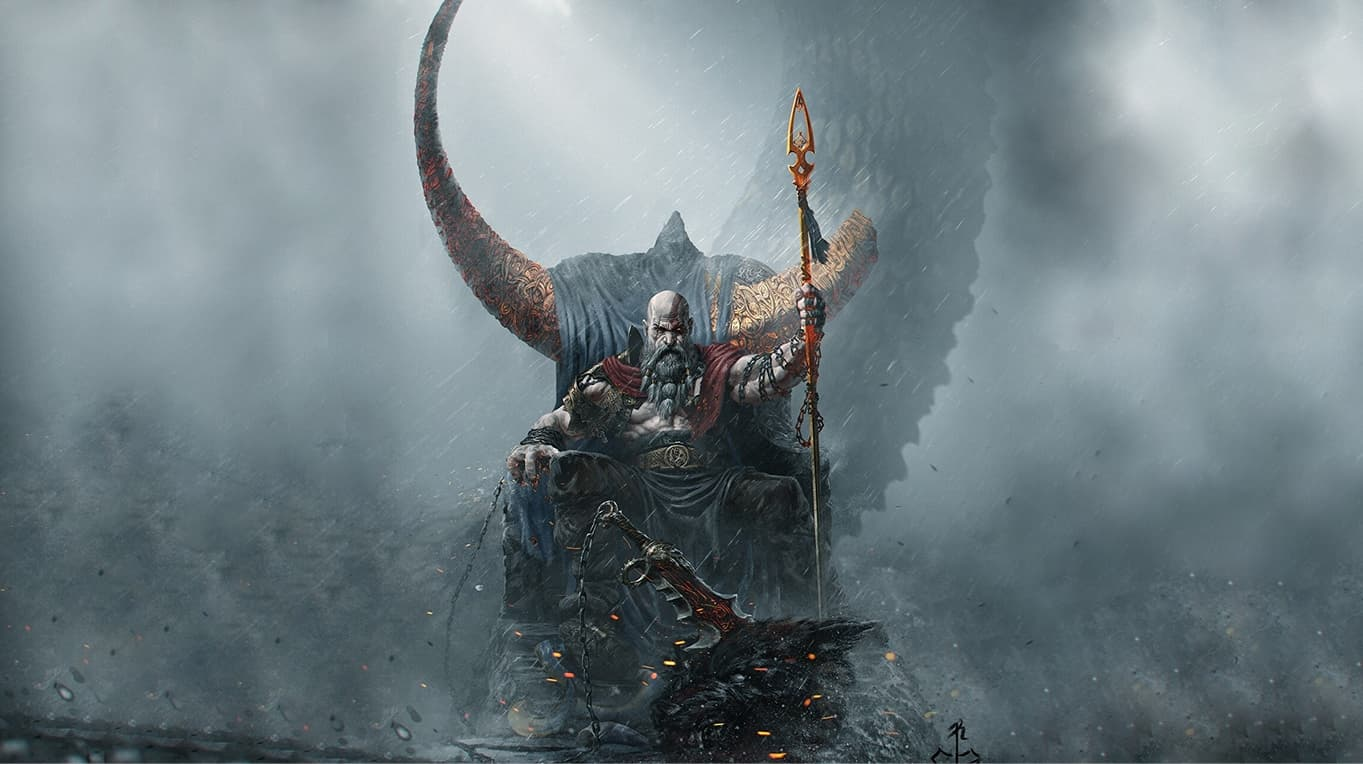
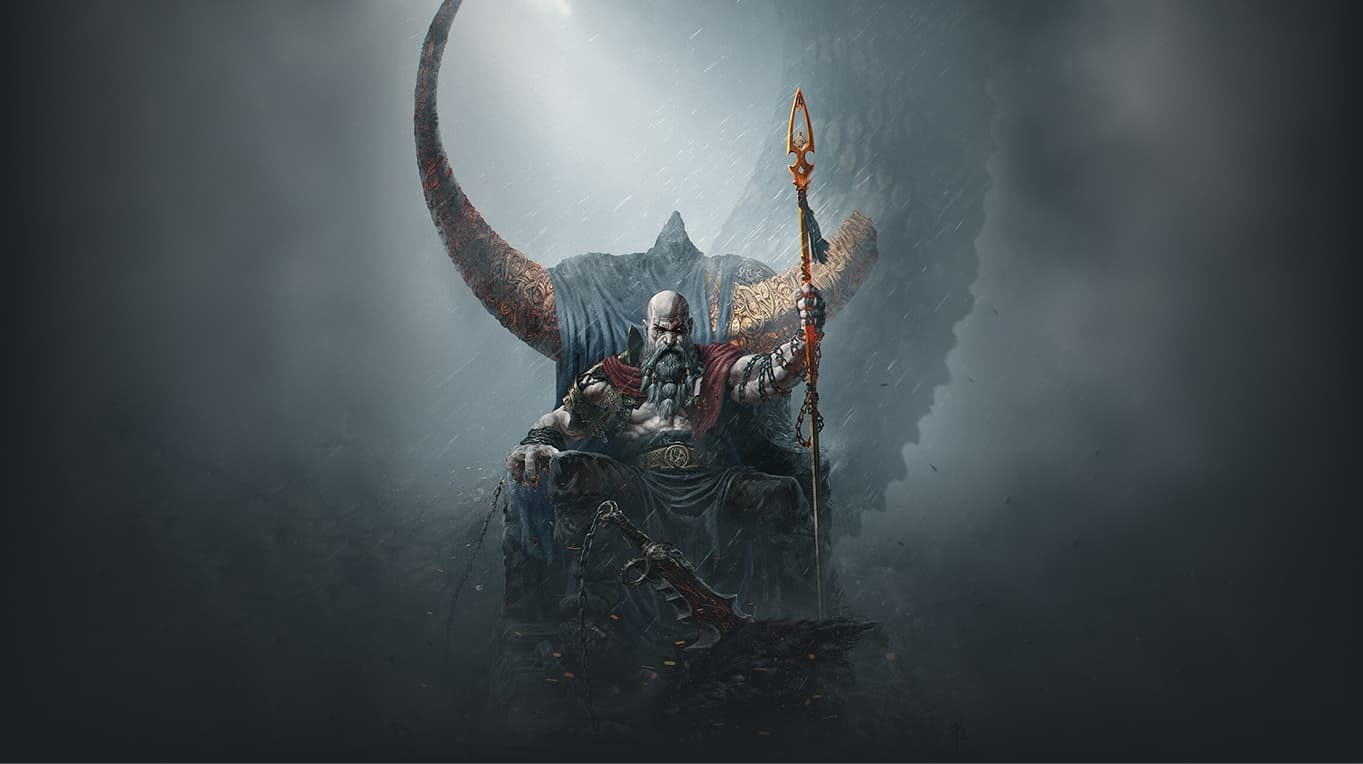
add hero styles

diff --git a/src/sass/components/_hero.scss b/src/sass/components/_hero.scss
@@ -1,0 +1,39 @@
+.hero {
+  padding: 186px 0;
+  background-color: #1c2023;
+  width: 100%;
+  height: 100%;
+  background-image: url('../images/herobg.jpg');
+  background-repeat: no-repeat;
+  background-position: right, top;
+
+  //  url('../images/videos/snow.gif')
+  &__title {
+    font-family: 'Rubik', sans-serif;
+    font-weight: 600;
+    font-size: 100px;
+    line-height: 100%;
+    color: #fff;
+    max-width: 538px;
+  }
+  &__text {
+    font-family: 'Rubik', sans-serif;
+    font-weight: 400;
+    font-size: 18px;
+    line-height: 150%;
+    color: #a9c7c7;
+    max-width: 543px;
+    margin: 27px 0 49px;
+  }
+  &__btn {
+    padding: 11px 37px;
+    border-radius: 6px;
+    background-color: #8856d9;
+
+    font-family: 'Rubik', sans-serif;
+    font-weight: 500;
+    font-size: 16px;
+    text-transform: uppercase;
+    color: #fff;
+  }
+}

diff --git a/src/partials/hero.html b/src/partials/hero.html
@@ -1,0 +1,11 @@
+<section class="hero">
+  <div class="container">
+    <h1 class="hero__title">God of War Ragnarök</h1>
+    <p class="hero__text">
+      Taking place three years following the events of the previous game,
+      Fimbulwinter, a great winter that spans three summers, is drawing to a
+      close which will begin the prophesied Ragnarök.
+    </p>
+    <button type="button" class="hero__btn open-modal-buy">buy now</button>
+  </div>
+</section>

diff --git a/src/index.html b/src/index.html
@@ -21,6 +21,8 @@
   </head>
   <body>
     <include src="./partials/header.html"></include>
-    <main class="main"></main>
+    <main class="main">
+      <include src="./partials/hero.html"></include>
+    </main>
   </body>
 </html>

diff --git a/src/sass/main.scss b/src/sass/main.scss
@@ -1,3 +1,5 @@
 @import './base/common';
+@import './base/reset';
 @import './components/header';
-@import './base/reset'
+@import './components/hero';
+

diff --git a/src/sass/components/_header.scss b/src/sass/components/_header.scss
@@ -5,7 +5,6 @@
   top: 0;
   left: 0;
   width: 100vw;
-  background-color: #000;
 
   & .container {
     display: flex;
